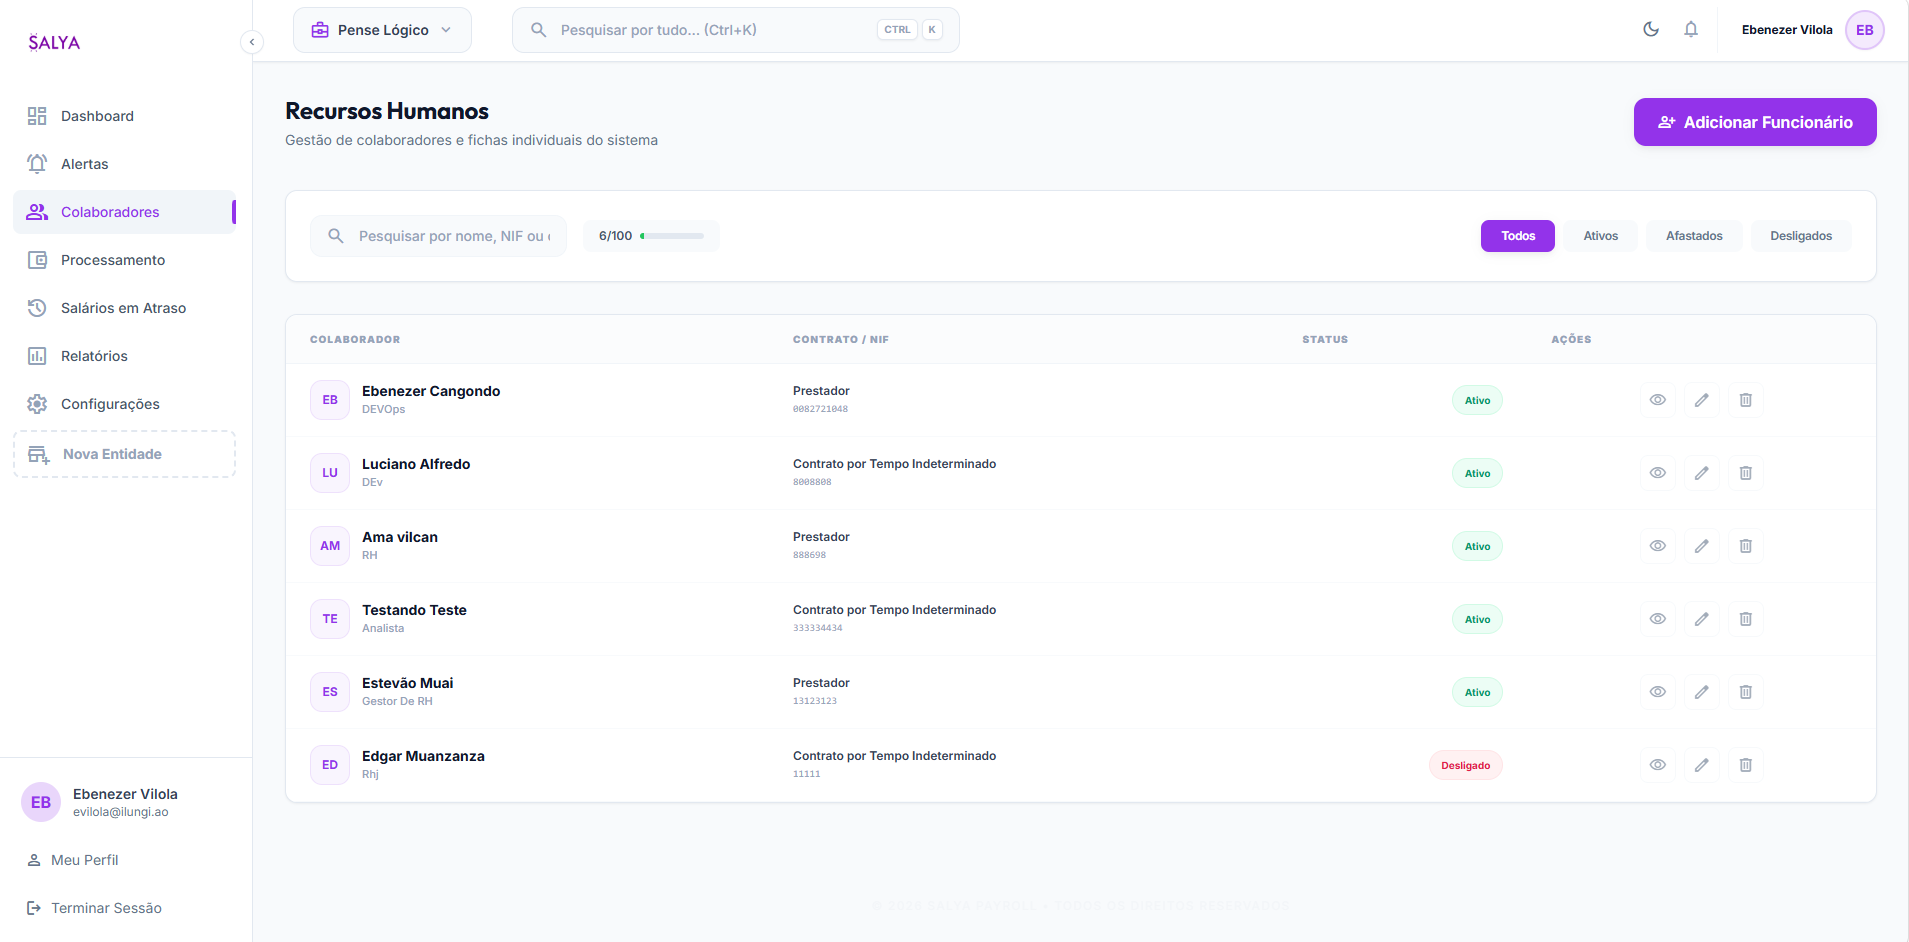
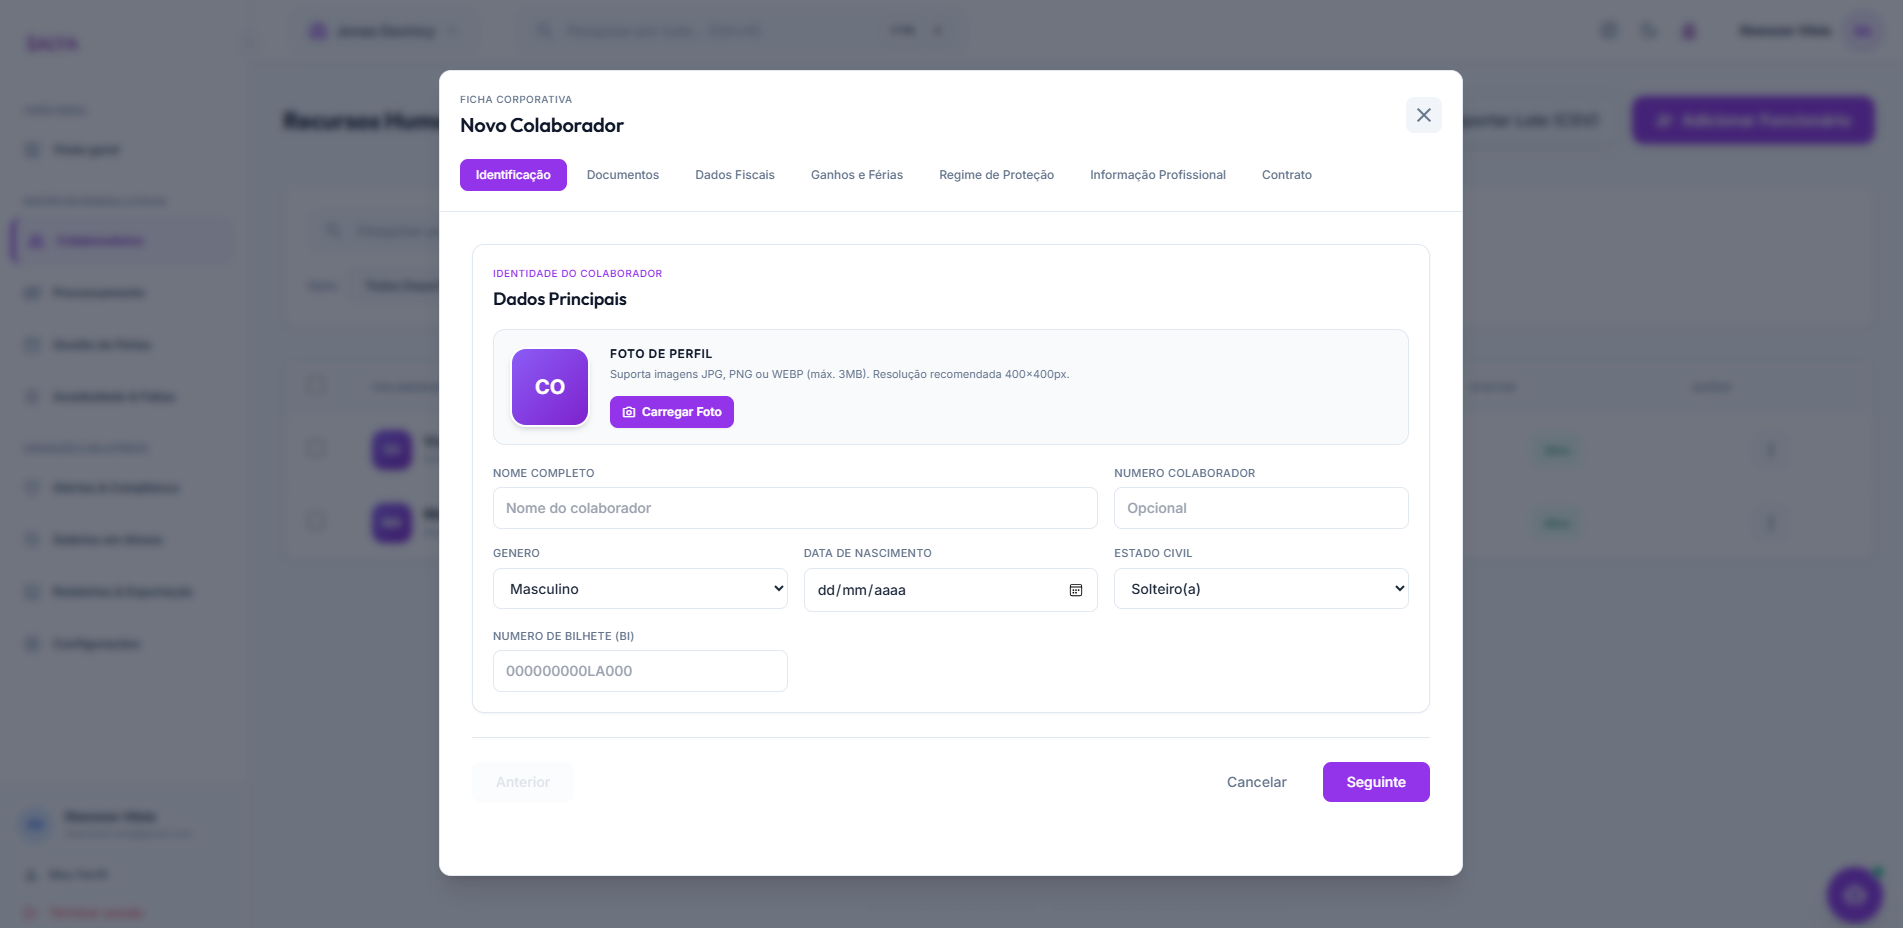
Imagens alteras ladinfg pag corrigida

diff --git a/src/pages/Landing.tsx b/src/pages/Landing.tsx
@@ -28,27 +28,27 @@ const Landing: React.FC<LandingProps> = ({ onShowTerms }) => {
 
   const funcionalidades = [
     {
-      titulo: 'Gestão de Colaboradores',
+      titulo: 'Gestão Inteligente de Colaboradores',
       descricao:
         'Controle completo sobre dados pessoais, contratuais e histórico profissional da sua equipa em um ambiente centralizado.',
       imagem: '/Colaborador.png',
     },
     {
-      titulo: 'Folha de Pagamento Profissional',
+      titulo: 'Folha de Pagamento Automatizada',
       descricao:
-        'Cálculos automatizados de IRT e INSS em conformidade total com a legislação angolana e o Decreto Presidencial.',
-      imagem: '/Processamento.png',
+        'Cálculos automatizados de IRT e INSS em conformidade total com a legislação angolana e os regulamentos da AGT.',
+      imagem: '/Folha de Pagamento.png',
     },
     {
-      titulo: 'Geração de Recibos em PDF',
+      titulo: 'Emissão Instantânea de Recibos em PDF',
       descricao:
-        'Emita recibos de vencimento detalhados e profissionais com apenas um clique, prontos para partilha digital segura.',
-      imagem: '/Recibos .jpeg',
+        'Emita recibos de vencimento detalhados e profissionais em PDF com apenas um clique, prontos para envio aos trabalhadores.',
+      imagem: '/Recibos.jpeg',
     },
     {
-      titulo: 'Relatórios & Business Intelligence',
+      titulo: 'Relatórios Executivos & Business Intelligence',
       descricao:
-        'Aceda a métricas precisas sobre a sua folha de pagamento e exporte relatórios mensais fundamentais para a sua gestão.',
+        'Aceda a métricas precisas sobre a sua folha de pagamento, custos patronais e exporte relatórios consolidados para contabilidade.',
       imagem: '/Relatorios.png',
     },
   ];
@@ -239,18 +239,22 @@ const Landing: React.FC<LandingProps> = ({ onShowTerms }) => {
               className="relative rounded-[2rem] overflow-hidden border border-slate-200 dark:border-slate-800 shadow-2xl bg-slate-900 aspect-video flex items-center justify-center cursor-pointer"
             >
               <div className="absolute inset-0 z-20 flex items-center justify-center group/btn">
-                <div className="size-20 bg-white/20 backdrop-blur-md rounded-full flex items-center justify-center border border-white/30 group-hover/btn:scale-110 group-hover/btn:bg-white/30 transition-all">
+                <div className="size-20 bg-white/20 backdrop-blur-md rounded-full flex items-center justify-center border border-white/30 group-hover/btn:scale-110 group-hover:bg-primary transition-all">
                   <span className="material-symbols-outlined text-white text-5xl">play_circle</span>
                 </div>
               </div>
               <video 
-                src="/mov.mp4" 
+                poster="/Arte 3.png"
                 autoPlay 
                 muted 
                 loop 
                 playsInline
+                preload="auto"
                 className="w-full h-full object-cover opacity-80 group-hover:opacity-100 transition-opacity"
-              />
+              >
+                <source src="/mov.mp4" type="video/mp4" />
+                Seu navegador não suporta a exibição deste vídeo.
+              </video>
             </div>
           </div>
         </div>
@@ -261,26 +265,32 @@ const Landing: React.FC<LandingProps> = ({ onShowTerms }) => {
 
       <section className="py-24 px-6 bg-white dark:bg-slate-900" id="funcionalidades">
         <div className="max-w-7xl mx-auto">
-          <div className="text-center mb-14">
-            <h2 className="text-4xl font-bold text-slate-900 dark:text-white tracking-tight">Potencialize a sua Gestão</h2>
+          <div className="text-center mb-14 space-y-3">
+            <span className="text-xs font-bold text-primary uppercase tracking-widest px-3 py-1 bg-primary/10 rounded-full inline-block">
+              Recursos de Alta Performance
+            </span>
+            <h2 className="text-4xl md:text-5xl font-extrabold text-slate-900 dark:text-white tracking-tight">Potencialize a sua Gestão</h2>
+            <p className="text-slate-500 dark:text-slate-400 max-w-2xl mx-auto font-medium text-base">
+              Conheça as novas funcionalidades visuais e ferramentas exclusivas desenvolvidas para otimizar os seus processos corporativos.
+            </p>
           </div>
-          <div className="grid grid-cols-1 md:grid-cols-2 gap-12">
+          <div className="grid grid-cols-1 md:grid-cols-2 gap-8 max-w-5xl mx-auto">
             {funcionalidades.map((func, index) => (
               <div
                 key={index}
-                className="group flex flex-col gap-8 p-1 bg-slate-50 dark:bg-slate-800/50 rounded-[2.5rem] border border-slate-100 dark:border-slate-800 hover:border-primary/20 transition-all overflow-hidden shadow-soft"
+                className="group flex flex-col justify-between p-2 bg-slate-50 dark:bg-slate-800/50 rounded-[2.5rem] border border-slate-100 dark:border-slate-800 hover:border-primary/30 transition-all overflow-hidden shadow-soft hover:shadow-2xl hover:-translate-y-1"
               >
-                <div className="relative h-72 overflow-hidden rounded-[2.2rem]">
+                <div className="relative h-64 overflow-hidden rounded-[2.2rem] bg-slate-100 dark:bg-slate-900">
                   <img
                     src={func.imagem}
                     alt={func.titulo}
-                    className="w-full h-full object-cover"
+                    className="w-full h-full object-cover group-hover:scale-105 transition-transform duration-700"
                   />
-                  <div className="absolute inset-0 bg-gradient-to-t from-slate-900/40 text-transparent" />
+                  <div className="absolute inset-0 bg-gradient-to-t from-slate-950/60 via-transparent to-transparent" />
                 </div>
-                <div className="px-8 pb-10 space-y-4">
-                  <h4 className="text-2xl font-bold text-slate-900 dark:text-white tracking-tight">{func.titulo}</h4>
-                  <p className="text-slate-500 leading-relaxed font-medium">{func.descricao}</p>
+                <div className="px-6 py-6 space-y-3 flex-1 flex flex-col justify-between">
+                  <h4 className="text-xl font-bold text-slate-900 dark:text-white tracking-tight leading-snug">{func.titulo}</h4>
+                  <p className="text-slate-500 dark:text-slate-400 text-sm leading-relaxed font-medium">{func.descricao}</p>
                 </div>
               </div>
             ))}
@@ -621,11 +631,15 @@ const Landing: React.FC<LandingProps> = ({ onShowTerms }) => {
           
           <div className="relative w-full max-w-5xl aspect-video rounded-3xl overflow-hidden shadow-2xl border border-white/10 bg-black">
             <video 
-              src="/mov.mp4" 
               autoPlay 
               controls 
+              preload="auto"
+              playsInline
               className="w-full h-full object-contain"
-            />
+            >
+              <source src="/mov.mp4" type="video/mp4" />
+              O seu navegador não suporta a reprodução deste vídeo.
+            </video>
           </div>
         </div>
       )}
@@ -637,13 +651,28 @@ const Carousel: React.FC = () => {
   const images = [
     {
       src: '/Arte 1 - 1x1.jpg.jpeg',
-      title: 'Simplicidade & Eficiência',
-      description: 'Tenha o controle total da sua folha de pagamento em poucos cliques. Design intuitivo focado na produtividade do seu RH.'
+      title: 'Gestão Inteligente & Eficiência',
+      description: 'Tenha o controle total da sua folha de pagamento em poucos cliques. Design intuitivo focado na produtividade da sua equipa de RH.'
     },
     {
       src: '/Arte 2 - 1x1b.jpg.jpeg',
-      title: 'Cálculos Inteligentes',
-      description: 'Automatização precisa de IRT e INSS conforme a lei angolana. Reduza erros e economize tempo valioso todos os meses.'
+      title: 'Cálculos Automáticos e Precisos',
+      description: 'Automatização completa do IRT e INSS em estrita conformidade com a legislação angolana. Reduza erros e economize tempo todos os meses.'
+    },
+    {
+      src: '/Arte 3.png',
+      title: 'Recibos Oficiais em PDF',
+      description: 'Emissão profissional de recibos de vencimento elegíveis e prontos para distribuição com segurança e rastreabilidade.'
+    },
+    {
+      src: '/Arte 4.png',
+      title: 'Dashboards & Métricas de BI',
+      description: 'Visão executiva em tempo real com gráficos interativos e relatórios consolidados sobre custos salariais e tributários.'
+    },
+    {
+      src: '/Arte 5.jpeg',
+      title: 'Conformidade Regulamentar Garantida',
+      description: 'Total alinhamento com o Decreto Presidencial e a LGT 12/23. Simuladores avançados para cálculo de 13.º Mês e rescisões.'
     }
   ];
 
@@ -660,7 +689,10 @@ const Carousel: React.FC = () => {
     <section className="py-24 px-6 bg-slate-50 dark:bg-slate-900/30 overflow-hidden">
       <div className="max-w-6xl mx-auto">
         <div className="text-center mb-16 space-y-4">
-          <h2 className="text-4xl font-bold text-slate-900 dark:text-white tracking-tight">Experiência Digital Superior</h2>
+          <span className="text-xs font-bold text-primary uppercase tracking-widest px-3 py-1 bg-primary/10 rounded-full inline-block">
+            Galeria de Apresentação
+          </span>
+          <h2 className="text-4xl md:text-5xl font-bold text-slate-900 dark:text-white tracking-tight">Experiência Digital Superior</h2>
         </div>
 
         <div className="relative group">
@@ -672,19 +704,29 @@ const Carousel: React.FC = () => {
                   idx === activeIndex ? 'opacity-100 translate-x-0' : 'opacity-0 translate-x-8 pointer-events-none'
                 }`}
               >
-                <div className="flex-1 h-full w-full">
+                <div className="flex-1 h-full w-full overflow-hidden bg-slate-900">
                   <img src={img.src} alt={img.title} className="w-full h-full object-cover" />
                 </div>
-                <div className="flex-1 p-8 md:p-12 space-y-6 bg-white dark:bg-slate-900">
-                  <h4 className="text-3xl md:text-4xl font-black text-slate-900 dark:text-white leading-tight">
-                    {img.title}
-                  </h4>
-                  <p className="text-lg text-slate-500 dark:text-slate-400 font-medium leading-relaxed">
-                    {img.description}
-                  </p>
-                  <div className="pt-4 flex gap-4">
-                    <button onClick={() => setActiveIndex(0)} title="Slide 1" aria-label="Ir para o slide 1" className={`size-3 rounded-full transition-all ${activeIndex === 0 ? 'bg-primary w-8' : 'bg-slate-200 dark:bg-slate-700'}`} />
-                    <button onClick={() => setActiveIndex(1)} title="Slide 2" aria-label="Ir para o slide 2" className={`size-3 rounded-full transition-all ${activeIndex === 1 ? 'bg-primary w-8' : 'bg-slate-200 dark:bg-slate-700'}`} />
+                <div className="flex-1 p-8 md:p-12 space-y-6 bg-white dark:bg-slate-900 flex flex-col justify-between">
+                  <div className="space-y-4">
+                    <span className="text-xs font-bold text-primary uppercase tracking-widest">Arte {idx + 1} de {images.length}</span>
+                    <h4 className="text-2xl md:text-3xl font-black text-slate-900 dark:text-white leading-tight">
+                      {img.title}
+                    </h4>
+                    <p className="text-base text-slate-500 dark:text-slate-400 font-medium leading-relaxed">
+                      {img.description}
+                    </p>
+                  </div>
+                  <div className="pt-4 flex items-center gap-3">
+                    {images.map((_, dotIdx) => (
+                      <button 
+                        key={dotIdx}
+                        onClick={() => setActiveIndex(dotIdx)} 
+                        title={`Ir para Arte ${dotIdx + 1}`} 
+                        aria-label={`Ir para Arte ${dotIdx + 1}`} 
+                        className={`h-3 rounded-full transition-all cursor-pointer ${dotIdx === activeIndex ? 'bg-primary w-8' : 'bg-slate-200 dark:bg-slate-700 w-3 hover:bg-primary/50'}`} 
+                      />
+                    ))}
                   </div>
                 </div>
               </div>
@@ -695,7 +737,7 @@ const Carousel: React.FC = () => {
             onClick={() => setActiveIndex((prev) => (prev - 1 + images.length) % images.length)}
             title="Slide Anterior"
             aria-label="Ir para o slide anterior"
-            className="absolute left-4 top-1/2 -translate-y-1/2 size-12 bg-white/80 dark:bg-slate-800/80 backdrop-blur-md rounded-full shadow-lg border border-slate-200 dark:border-slate-700 items-center justify-center text-slate-600 dark:text-slate-300 hover:bg-white dark:hover:bg-slate-800 transition-all hidden md:flex z-30"
+            className="absolute left-4 top-1/2 -translate-y-1/2 size-12 bg-white/80 dark:bg-slate-800/80 backdrop-blur-md rounded-full shadow-lg border border-slate-200 dark:border-slate-700 items-center justify-center text-slate-600 dark:text-slate-300 hover:bg-white dark:hover:bg-slate-800 transition-all hidden md:flex z-30 cursor-pointer"
           >
             <span className="material-symbols-outlined">chevron_left</span>
           </button>
@@ -703,7 +745,7 @@ const Carousel: React.FC = () => {
             onClick={() => setActiveIndex((prev) => (prev + 1) % images.length)}
             title="Próximo Slide"
             aria-label="Ir para o próximo slide"
-            className="absolute right-4 top-1/2 -translate-y-1/2 size-12 bg-white/80 dark:bg-slate-800/80 backdrop-blur-md rounded-full shadow-lg border border-slate-200 dark:border-slate-700 items-center justify-center text-slate-600 dark:text-slate-300 hover:bg-white dark:hover:bg-slate-800 transition-all hidden md:flex z-30"
+            className="absolute right-4 top-1/2 -translate-y-1/2 size-12 bg-white/80 dark:bg-slate-800/80 backdrop-blur-md rounded-full shadow-lg border border-slate-200 dark:border-slate-700 items-center justify-center text-slate-600 dark:text-slate-300 hover:bg-white dark:hover:bg-slate-800 transition-all hidden md:flex z-30 cursor-pointer"
           >
             <span className="material-symbols-outlined">chevron_right</span>
           </button>

diff --git a/index.html b/index.html
@@ -26,27 +26,19 @@
     <title>SALYA — Folha de Pagamento</title>
     <link rel="icon" href="/logo.png" />
 
-    <!-- Preload critical fonts to prevent FOUC -->
+    <!-- Fast Google Fonts with font-display: swap -->
     <link rel="preconnect" href="https://fonts.googleapis.com" />
     <link rel="preconnect" href="https://fonts.gstatic.com" crossorigin />
-    <link rel="preload" href="https://fonts.googleapis.com/css2?family=Inter:wght@300;400;500;600;700;800;900&display=swap" as="style" />
-    <link rel="preload" href="https://fonts.googleapis.com/css2?family=Material+Symbols+Outlined:wght,FILL@100..700,0..1&display=block" as="style" />
+    <link href="https://fonts.googleapis.com/css2?family=Inter:wght@300;400;500;600;700;800;900&family=Material+Symbols+Outlined:wght,FILL@100..700,0..1&display=swap" rel="stylesheet" />
 
-    <link href="https://fonts.googleapis.com/css2?family=Inter:wght@300;400;500;600;700;800;900&display=swap" rel="stylesheet" />
-    <link href="https://fonts.googleapis.com/css2?family=Material+Symbols+Outlined:wght,FILL@100..700,0..1&display=swap" rel="stylesheet" />
-
-    <!-- Prevent FOUC: hide root until fonts are ready, show splash screen -->
+    <!-- Instant Load Styles -->
     <style>
       html { background: #0f172a; }
       #root {
-        opacity: 0;
-        transition: opacity 0.25s ease;
-      }
-      #root.fonts-ready {
         opacity: 1;
       }
       .material-symbols-outlined {
-        font-family: 'Material Symbols Outlined';
+        font-family: 'Material Symbols Outlined', sans-serif;
         font-size: 24px;
         font-weight: normal;
         font-style: normal;
@@ -60,10 +52,6 @@
         -webkit-font-feature-settings: 'liga';
         font-feature-settings: 'liga';
         -webkit-font-smoothing: antialiased;
-        visibility: hidden;
-      }
-      .fonts-loaded .material-symbols-outlined {
-        visibility: visible;
       }
       #salya-splash {
         position: fixed;
@@ -75,7 +63,7 @@
         align-items: center;
         justify-content: center;
         gap: 16px;
-        transition: opacity 0.3s ease;
+        transition: opacity 0.2s ease;
       }
       #salya-splash.hidden {
         opacity: 0;
@@ -104,26 +92,24 @@
     <script>
       function revealApp() {
         document.documentElement.classList.add('fonts-loaded');
-        var root = document.getElementById('root');
-        if (root) root.classList.add('fonts-ready');
         var splash = document.getElementById('salya-splash');
-        if (splash) {
+        if (splash && !splash.classList.contains('hidden')) {
           splash.classList.add('hidden');
-          setTimeout(function() { splash.remove(); }, 350);
+          setTimeout(function() { if (splash) splash.remove(); }, 200);
         }
       }
 
-      if (document.fonts && document.fonts.ready) {
-        document.fonts.ready.then(revealApp);
+      if (document.readyState === 'complete' || document.readyState === 'interactive') {
+        setTimeout(revealApp, 50);
       } else {
-        setTimeout(revealApp, 800);
+        document.addEventListener('DOMContentLoaded', function() { setTimeout(revealApp, 50); });
       }
-      setTimeout(revealApp, 2000);
+      setTimeout(revealApp, 200);
 
       if ('serviceWorker' in navigator) {
         window.addEventListener('load', function() {
           navigator.serviceWorker.register('/sw.js').catch(function(err) {
-            console.log('ServiceWorker error:', err);
+            console.log('ServiceWorker info:', err);
           });
         });
       }
